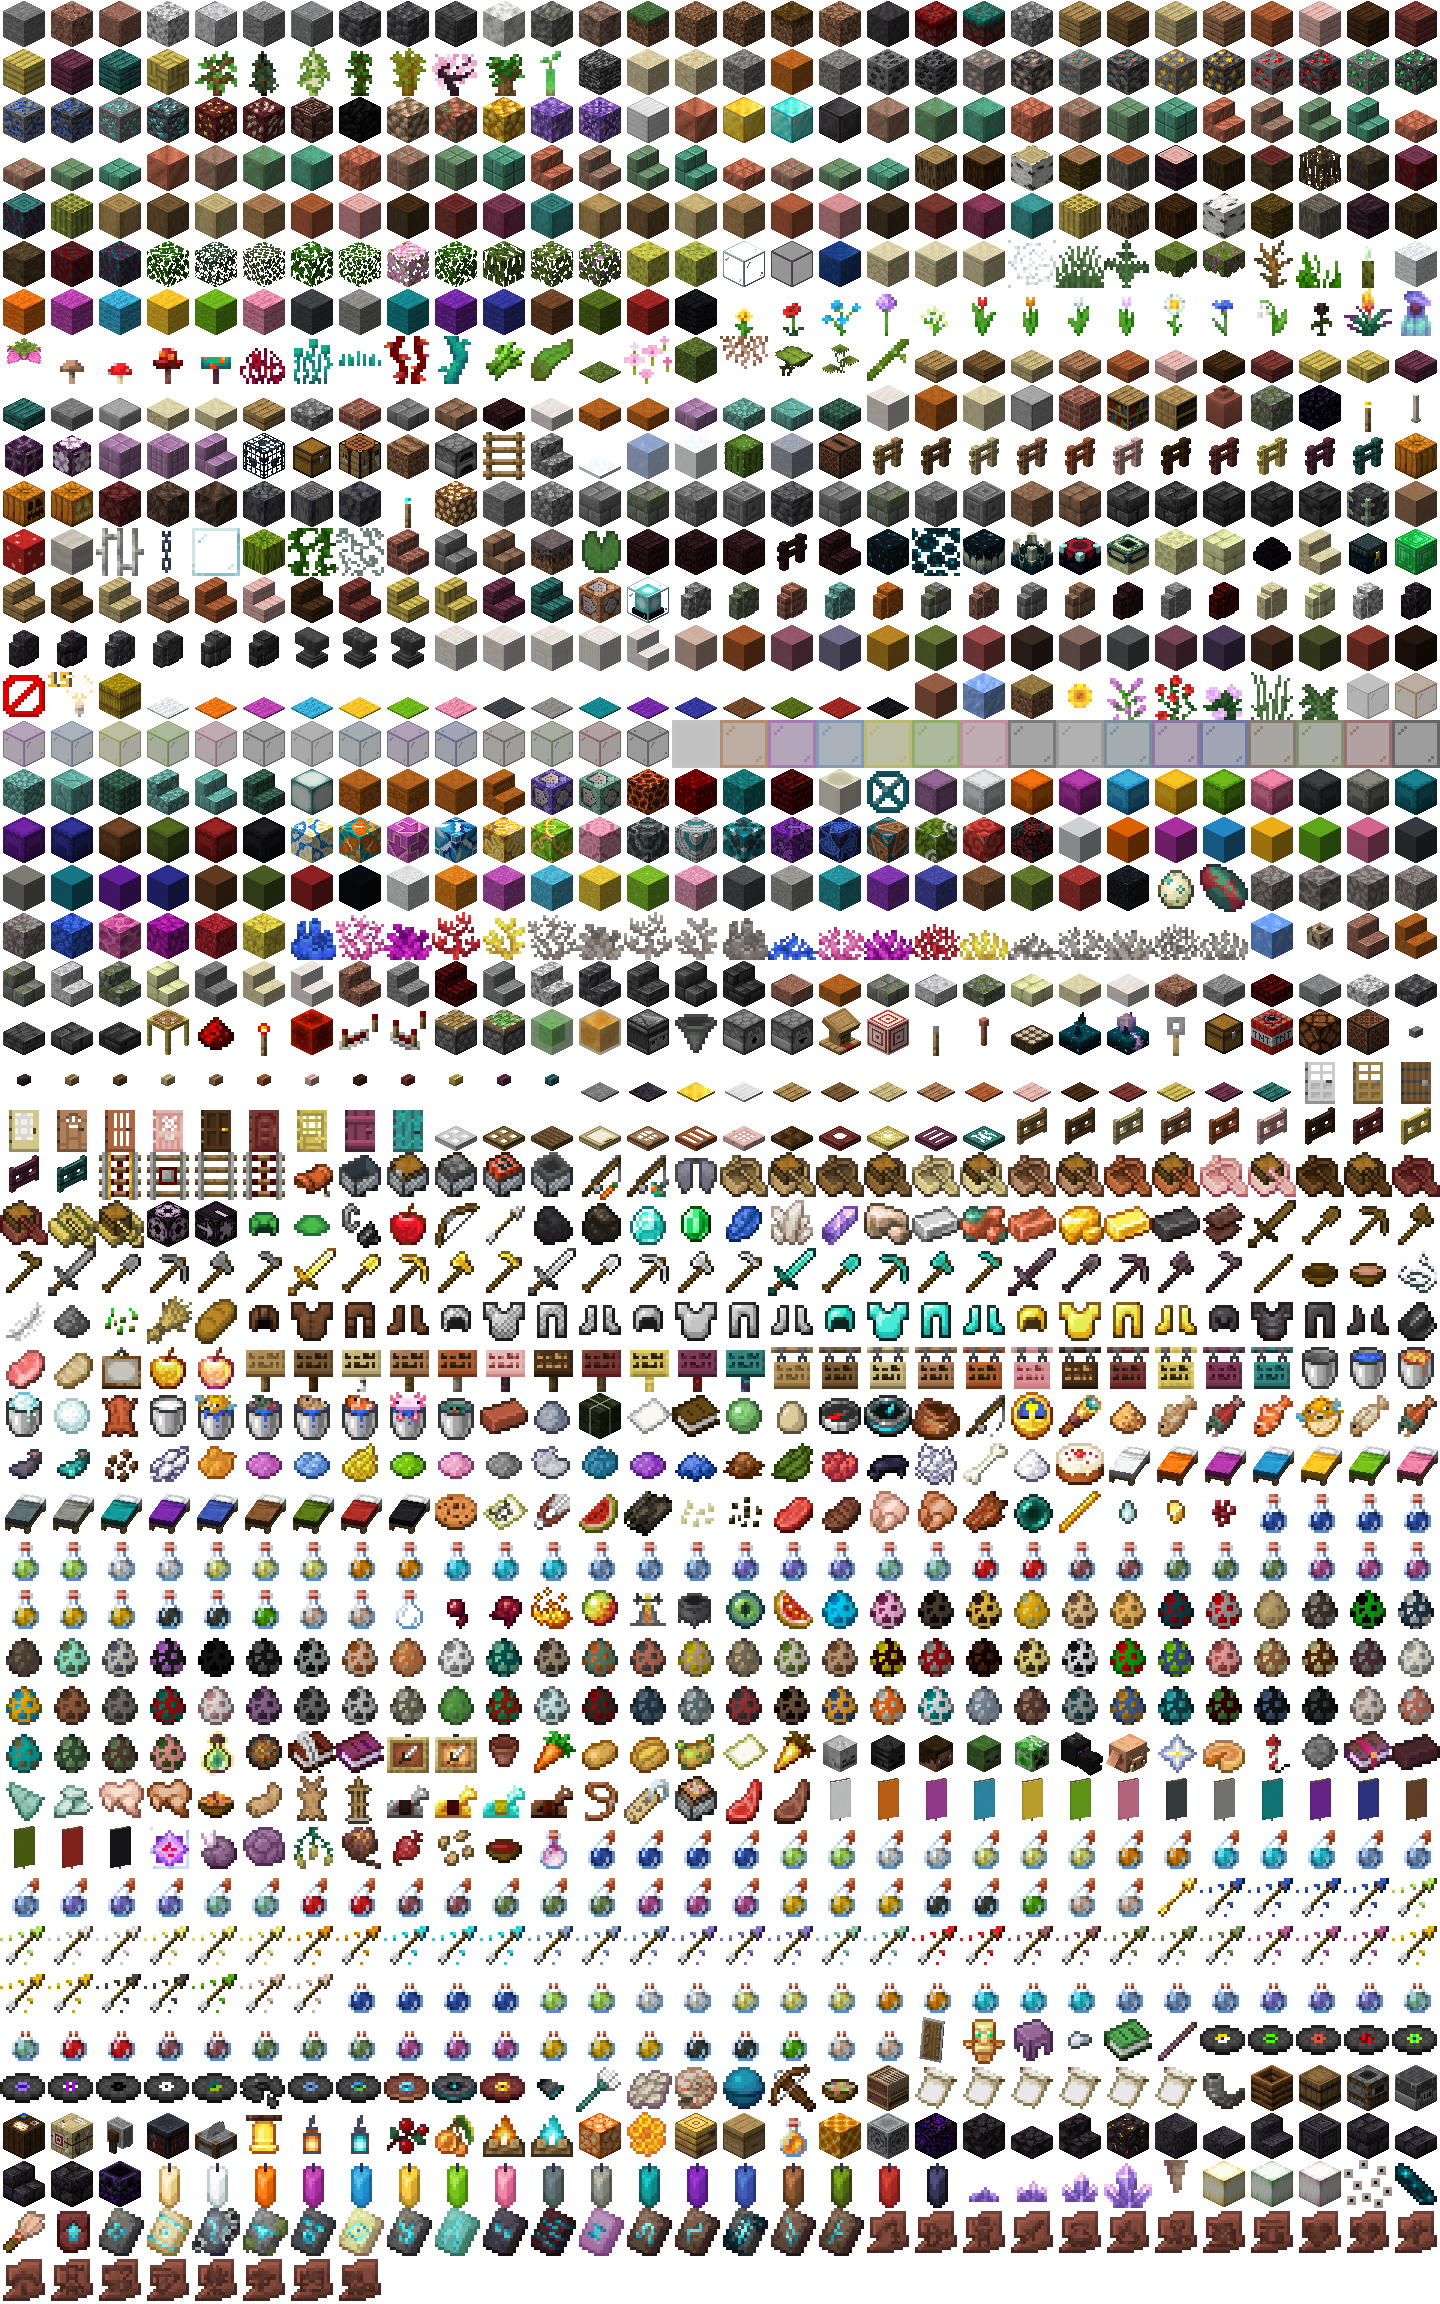
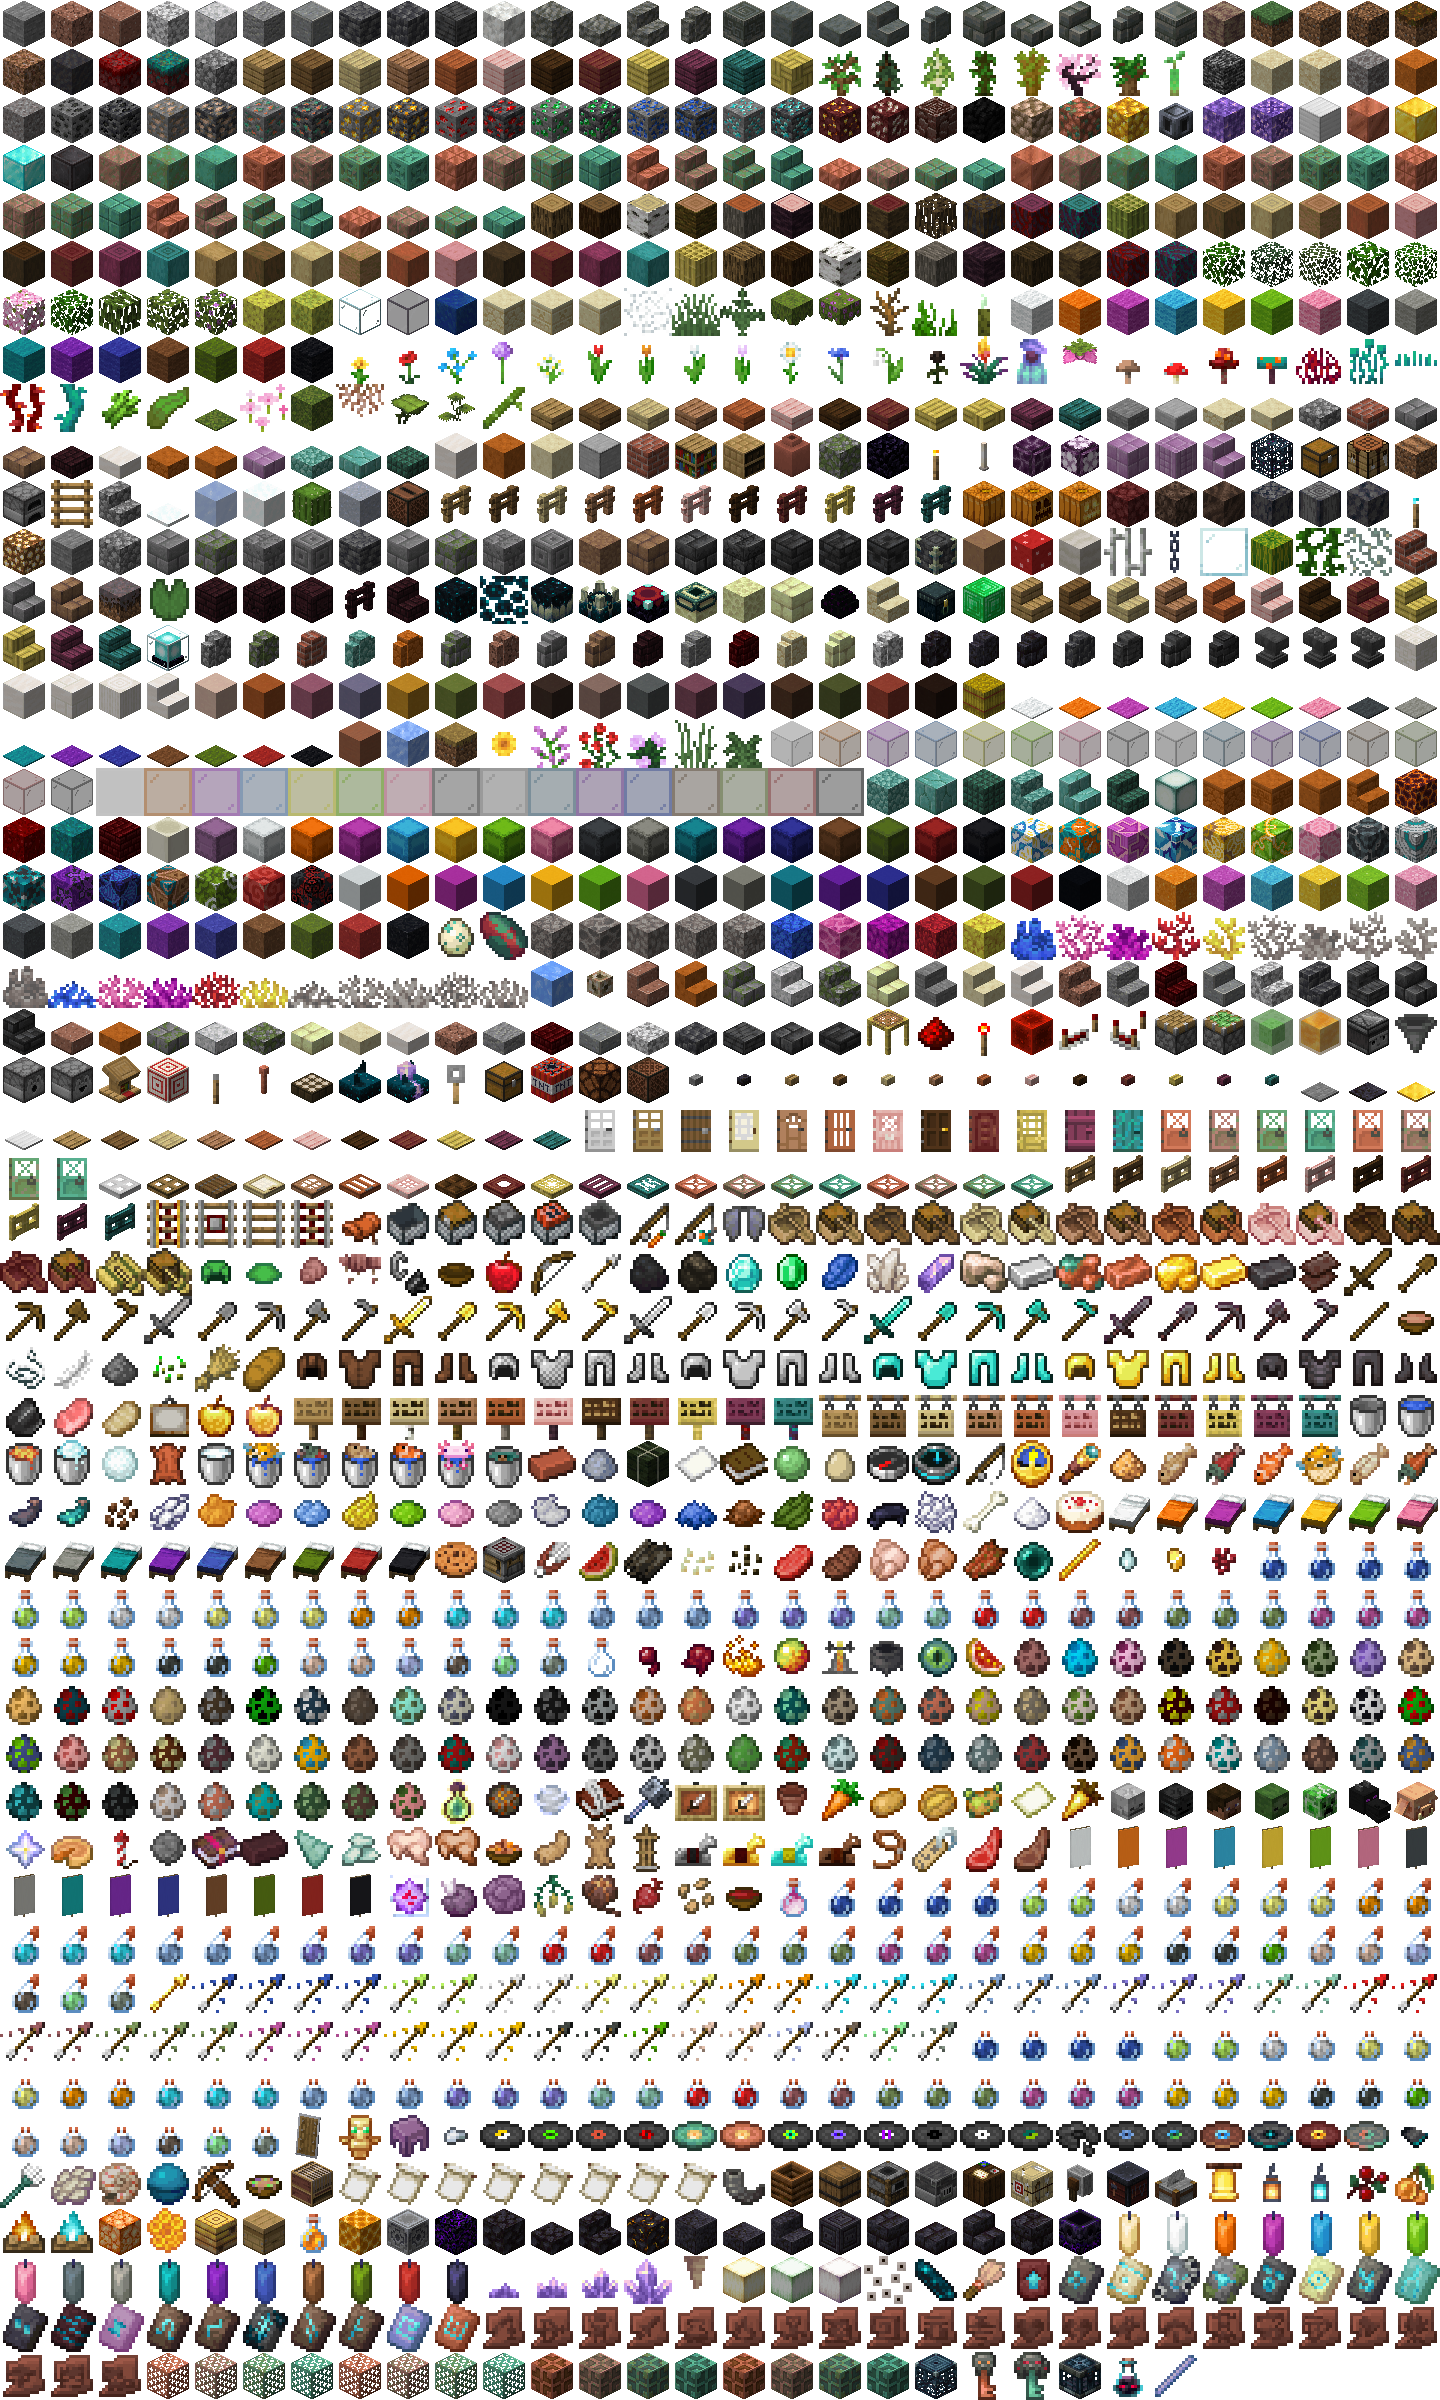
Client: Add items

diff --git a/client/src/common/constants/item.constant.ts b/client/src/common/constants/item.constant.ts
@@ -11,6 +11,19 @@ export const items = [
   'polished_deepslate',
   'calcite',
   'tuff',
+  'tuff_slab',
+  'tuff_stairs',
+  'tuff_wall',
+  'chiseled_tuff',
+  'polished_tuff',
+  'polished_tuff_slab',
+  'polished_tuff_stairs',
+  'polished_tuff_wall',
+  'tuff_bricks',
+  'tuff_brick_slab',
+  'tuff_brick_stairs',
+  'tuff_brick_wall',
+  'chiseled_tuff_bricks',
   'dripstone_block',
   'grass_block',
   'dirt',
@@ -70,6 +83,7 @@ export const items = [
   'raw_iron_block',
   'raw_copper_block',
   'raw_gold_block',
+  'heavy_core',
   'amethyst_block',
   'budding_amethyst',
   'iron_block',
@@ -80,6 +94,10 @@ export const items = [
   'exposed_copper',
   'weathered_copper',
   'oxidized_copper',
+  'chiseled_copper',
+  'exposed_chiseled_copper',
+  'weathered_chiseled_copper',
+  'oxidized_chiseled_copper',
   'cut_copper',
   'exposed_cut_copper',
   'weathered_cut_copper',
@@ -96,6 +114,10 @@ export const items = [
   'waxed_exposed_copper',
   'waxed_weathered_copper',
   'waxed_oxidized_copper',
+  'waxed_chiseled_copper',
+  'waxed_exposed_chiseled_copper',
+  'waxed_weathered_chiseled_copper',
+  'waxed_oxidized_chiseled_copper',
   'waxed_cut_copper',
   'waxed_exposed_cut_copper',
   'waxed_weathered_cut_copper',
@@ -244,7 +266,6 @@ export const items = [
   'smooth_stone_slab',
   'sandstone_slab',
   'cut_sandstone_slab',
-  'petrified_oak_slab',
   'cobblestone_slab',
   'brick_slab',
   'stone_brick_slab',
@@ -371,7 +392,6 @@ export const items = [
   'bamboo_mosaic_stairs',
   'crimson_stairs',
   'warped_stairs',
-  'command_block',
   'beacon',
   'cobblestone_wall',
   'mossy_cobblestone_wall',
@@ -419,8 +439,6 @@ export const items = [
   'green_terracotta',
   'red_terracotta',
   'black_terracotta',
-  'barrier',
-  'light',
   'hay_block',
   'white_carpet',
   'orange_carpet',
@@ -490,14 +508,11 @@ export const items = [
   'chiseled_red_sandstone',
   'cut_red_sandstone',
   'red_sandstone_stairs',
-  'repeating_command_block',
-  'chain_command_block',
   'magma_block',
   'nether_wart_block',
   'warped_wart_block',
   'red_nether_bricks',
   'bone_block',
-  'structure_void',
   'shulker_box',
   'white_shulker_box',
   'orange_shulker_box',
@@ -698,6 +713,14 @@ export const items = [
   'bamboo_door',
   'crimson_door',
   'warped_door',
+  'copper_door',
+  'exposed_copper_door',
+  'weathered_copper_door',
+  'oxidized_copper_door',
+  'waxed_copper_door',
+  'waxed_exposed_copper_door',
+  'waxed_weathered_copper_door',
+  'waxed_oxidized_copper_door',
   'iron_trapdoor',
   'oak_trapdoor',
   'spruce_trapdoor',
@@ -710,6 +733,14 @@ export const items = [
   'bamboo_trapdoor',
   'crimson_trapdoor',
   'warped_trapdoor',
+  'copper_trapdoor',
+  'exposed_copper_trapdoor',
+  'weathered_copper_trapdoor',
+  'oxidized_copper_trapdoor',
+  'waxed_copper_trapdoor',
+  'waxed_exposed_copper_trapdoor',
+  'waxed_weathered_copper_trapdoor',
+  'waxed_oxidized_copper_trapdoor',
   'oak_fence_gate',
   'spruce_fence_gate',
   'birch_fence_gate',
@@ -752,11 +783,12 @@ export const items = [
   'mangrove_chest_boat',
   'bamboo_raft',
   'bamboo_chest_raft',
-  'structure_block',
-  'jigsaw',
   'turtle_helmet',
-  'scute',
+  'turtle_scute',
+  'armadillo_scute',
+  'wolf_armor',
   'flint_and_steel',
+  'bowl',
   'apple',
   'bow',
   'arrow',
@@ -806,7 +838,6 @@ export const items = [
   'netherite_axe',
   'netherite_hoe',
   'stick',
-  'bowl',
   'mushroom_stew',
   'string',
   'feather',
@@ -888,7 +919,6 @@ export const items = [
   'egg',
   'compass',
   'recovery_compass',
-  'bundle',
   'fishing_rod',
   'clock',
   'spyglass',
@@ -939,7 +969,7 @@ export const items = [
   'red_bed',
   'black_bed',
   'cookie',
-  'filled_map',
+  'crafter',
   'shears',
   'melon_slice',
   'dried_kelp',
@@ -997,6 +1027,10 @@ export const items = [
   'potion_of_luck',
   'potion_of_slow_falling',
   'potion_of_slow_falling_long',
+  'potion_of_wind_charging',
+  'potion_of_weaving',
+  'potion_of_oozing',
+  'potion_of_infestation',
   'glass_bottle',
   'spider_eye',
   'fermented_spider_eye',
@@ -1006,11 +1040,14 @@ export const items = [
   'cauldron',
   'ender_eye',
   'glistering_melon_slice',
+  'armadillo_spawn_egg',
   'allay_spawn_egg',
   'axolotl_spawn_egg',
   'bat_spawn_egg',
   'bee_spawn_egg',
   'blaze_spawn_egg',
+  'bogged_spawn_egg',
+  'breeze_spawn_egg',
   'cat_spawn_egg',
   'camel_spawn_egg',
   'cave_spider_spawn_egg',
@@ -1022,7 +1059,6 @@ export const items = [
   'donkey_spawn_egg',
   'drowned_spawn_egg',
   'elder_guardian_spawn_egg',
-  'ender_dragon_spawn_egg',
   'enderman_spawn_egg',
   'endermite_spawn_egg',
   'evoker_spawn_egg',
@@ -1075,7 +1111,6 @@ export const items = [
   'wandering_trader_spawn_egg',
   'warden_spawn_egg',
   'witch_spawn_egg',
-  'wither_spawn_egg',
   'wither_skeleton_spawn_egg',
   'wolf_spawn_egg',
   'zoglin_spawn_egg',
@@ -1085,8 +1120,9 @@ export const items = [
   'zombified_piglin_spawn_egg',
   'experience_bottle',
   'fire_charge',
+  'wind_charge',
   'writable_book',
-  'written_book',
+  'mace',
   'item_frame',
   'glow_item_frame',
   'flower_pot',
@@ -1123,7 +1159,6 @@ export const items = [
   'leather_horse_armor',
   'lead',
   'name_tag',
-  'command_block_minecart',
   'mutton',
   'cooked_mutton',
   'white_banner',
@@ -1193,6 +1228,10 @@ export const items = [
   'splash_potion_of_luck',
   'splash_potion_of_slow_falling',
   'splash_potion_of_slow_falling_long',
+  'splash_potion_of_wind_charging',
+  'splash_potion_of_weaving',
+  'splash_potion_of_oozing',
+  'splash_potion_of_infestation',
   'spectral_arrow',
   'tipped_arrow_of_water',
   'tipped_arrow_of_mundane',
@@ -1236,6 +1275,10 @@ export const items = [
   'tipped_arrow_of_luck',
   'tipped_arrow_of_slow_falling',
   'tipped_arrow_of_slow_falling_long',
+  'tipped_arrow_of_wind_charging',
+  'tipped_arrow_of_weaving',
+  'tipped_arrow_of_oozing',
+  'tipped_arrow_of_infestation',
   'lingering_potion_of_water',
   'lingering_potion_of_mundane',
   'lingering_potion_of_thick',
@@ -1278,16 +1321,20 @@ export const items = [
   'lingering_potion_of_luck',
   'lingering_potion_of_slow_falling',
   'lingering_potion_of_slow_falling_long',
+  'lingering_potion_of_wind_charging',
+  'lingering_potion_of_weaving',
+  'lingering_potion_of_oozing',
+  'lingering_potion_of_infestation',
   'shield',
   'totem_of_undying',
   'shulker_shell',
   'iron_nugget',
-  'knowledge_book',
-  'debug_stick',
   'music_disc_13',
   'music_disc_cat',
   'music_disc_blocks',
   'music_disc_chirp',
+  'music_disc_creator',
+  'music_disc_creator_music_box',
   'music_disc_far',
   'music_disc_mall',
   'music_disc_mellohi',
@@ -1300,6 +1347,7 @@ export const items = [
   'music_disc_relic',
   'music_disc_5',
   'music_disc_pigstep',
+  'music_disc_precipice',
   'disc_fragment_5',
   'trident',
   'phantom_membrane',
@@ -1314,6 +1362,8 @@ export const items = [
   'mojang_banner_pattern',
   'globe_banner_pattern',
   'piglin_banner_pattern',
+  'flow_banner_pattern',
+  'guster_banner_pattern',
   'goat_horn',
   'composter',
   'barrel',
@@ -1397,6 +1447,8 @@ export const items = [
   'silence_armor_trim_smithing_template',
   'raiser_armor_trim_smithing_template',
   'host_armor_trim_smithing_template',
+  'flow_armor_trim_smithing_template',
+  'bolt_armor_trim_smithing_template',
   'angler_pottery_sherd',
   'archer_pottery_sherd',
   'arms_up_pottery_sherd',
@@ -1405,7 +1457,9 @@ export const items = [
   'burn_pottery_sherd',
   'danger_pottery_sherd',
   'explorer_pottery_sherd',
+  'flow_pottery_sherd',
   'friend_pottery_sherd',
+  'guster_pottery_sherd',
   'heart_pottery_sherd',
   'heartbreak_pottery_sherd',
   'howl_pottery_sherd',
@@ -1413,8 +1467,31 @@ export const items = [
   'mourner_pottery_sherd',
   'plenty_pottery_sherd',
   'prize_pottery_sherd',
+  'scrape_pottery_sherd',
   'sheaf_pottery_sherd',
   'shelter_pottery_sherd',
   'skull_pottery_sherd',
   'snort_pottery_sherd',
+  'copper_grate',
+  'exposed_copper_grate',
+  'weathered_copper_grate',
+  'oxidized_copper_grate',
+  'waxed_copper_grate',
+  'waxed_exposed_copper_grate',
+  'waxed_weathered_copper_grate',
+  'waxed_oxidized_copper_grate',
+  'copper_bulb',
+  'exposed_copper_bulb',
+  'weathered_copper_bulb',
+  'oxidized_copper_bulb',
+  'waxed_copper_bulb',
+  'waxed_exposed_copper_bulb',
+  'waxed_weathered_copper_bulb',
+  'waxed_oxidized_copper_bulb',
+  'trial_spawner',
+  'trial_key',
+  'ominous_trial_key',
+  'vault',
+  'ominous_bottle',
+  'breeze_rod',
 ];
